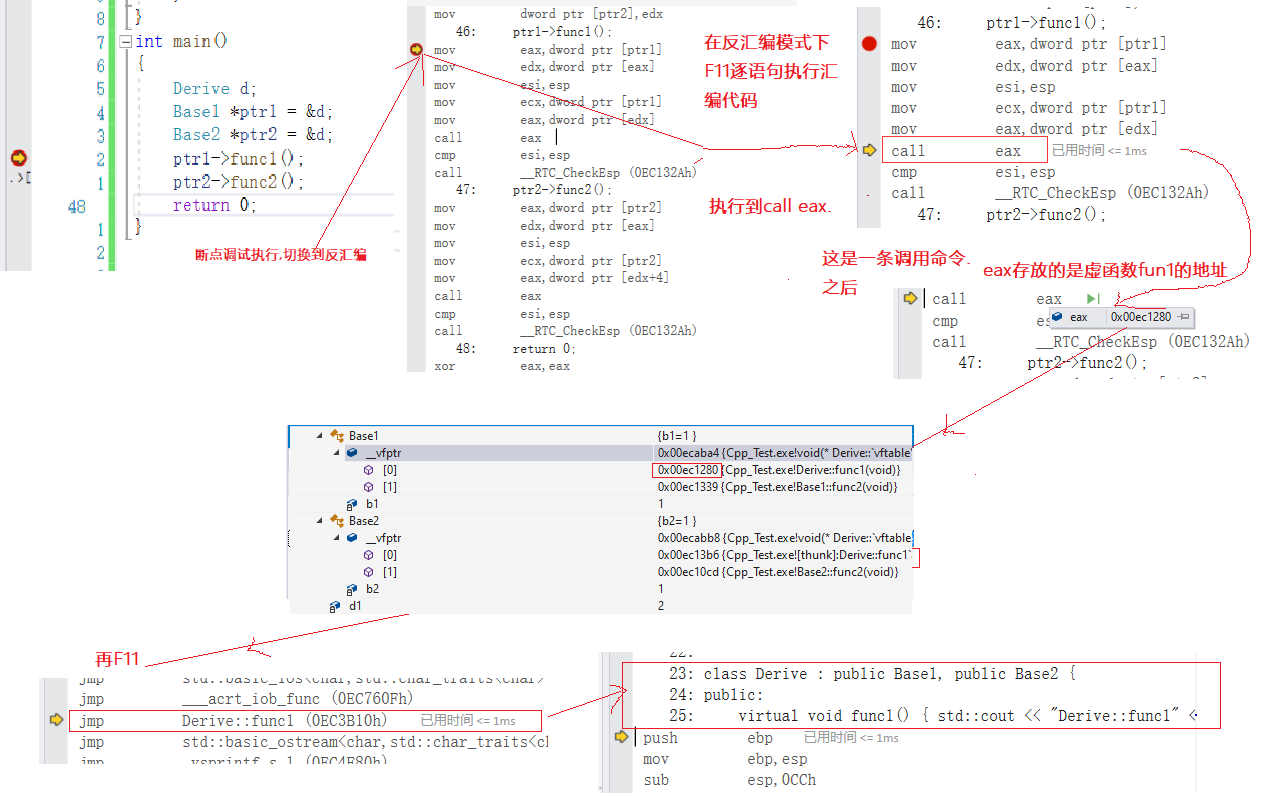
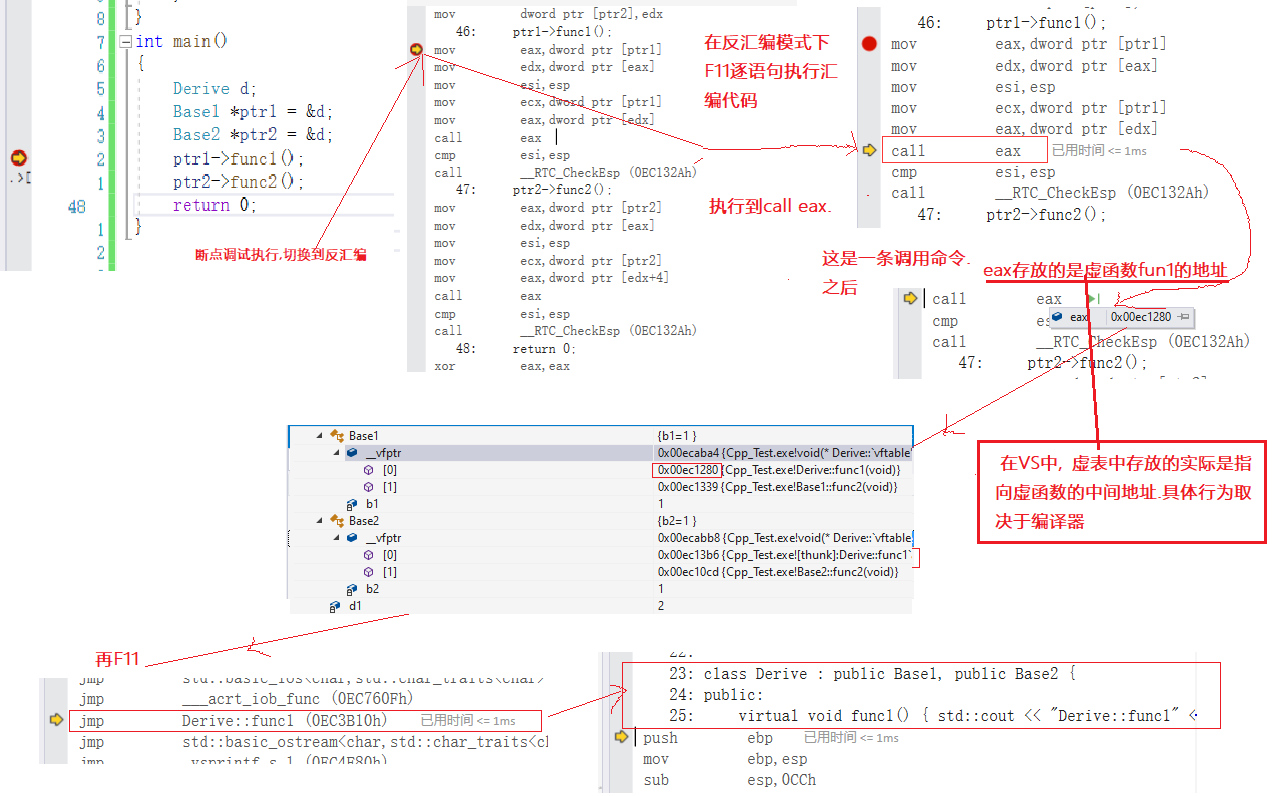
update

Changed region(s): [[0.7465, 0.5427, 0.9953, 0.6935], [0.7776, 0.3317, 0.9331, 0.3618]]

diff --git a/Cpp_Test/Cpp_Test/test.cpp b/Cpp_Test/Cpp_Test/test.cpp
@@ -4,6 +4,17 @@
 #include<algorithm>
 
 
+void fun() {
+    
+}
+
+int main()
+{
+    fun();
+    return 0;
+}
+
+
 class Base1 {
 public:
     virtual void func1() { std::cout << "Base1::func1" <<std::endl; }
@@ -38,15 +49,15 @@ void PrintVFTable(VFPTR table[])
         f();
     }
 }
-int main()
-{
-    Derive d;
-    Base1 *ptr1 = &d;
-    Base2 *ptr2 = &d;
-    ptr1->func1();
-    ptr2->func1();
-    return 0;
-}
+//int main()
+//{
+//    Derive d;
+//    Base1 *ptr1 = &d;
+//    Base2 *ptr2 = &d;
+//    ptr1->func1();
+//    ptr2->func1();
+//    return 0;
+//}
 
 
 

diff --git a/Cpp_Test/Cpp_Test/多态.md b/Cpp_Test/Cpp_Test/多态.md
@@ -1057,6 +1057,15 @@ int main(){
 
 这就是多继承下多态的原理
 
+##### 虚表中地址(概念修正)
+
+1. **虚函数地址**：这是虚函数在程序内存中的实际地址，即函数体开始的位置。
+2. **虚表中的地址**：虚表中存储的地址通常直接指向虚函数的实际地址。然而，在某些情况下，如为了实现一些优化，编译器可能不会直接在虚表中存储虚函数的地址，而是存储一个“跳跃”函数的地址，这个跳跃函数再跳转到虚函数的真实地址。这种跳跃函数可以用来做额外的检查或者优化，例如性能计数、调试信息插入等。
+
+> 所以，虚表中存放的地址大多数情况下就是虚函数的真实地址，但在某些特定的优化场景下，它可能指向一个中间函数，这个中间函数再负责跳转到真实的函数地址。这种间接调用的机制有时被称为“thunk”，它允许编译器在运行时进行更复杂的控制流分析和优化。
+>
+> 对于现代的C++编译器，如GCC或Clang，它们默认的行为是在虚表中直接存储虚函数的真实地址，除非有特殊的优化需求。如果想了解具体的实现，可以通过反汇编工具（如objdump, IDA Pro等）查看编译后的二进制文件，检查虚表的结构和内容。
+
 
 
  * 子类会继承所有父类的虚表,有多少个父类就有多少个虚表
